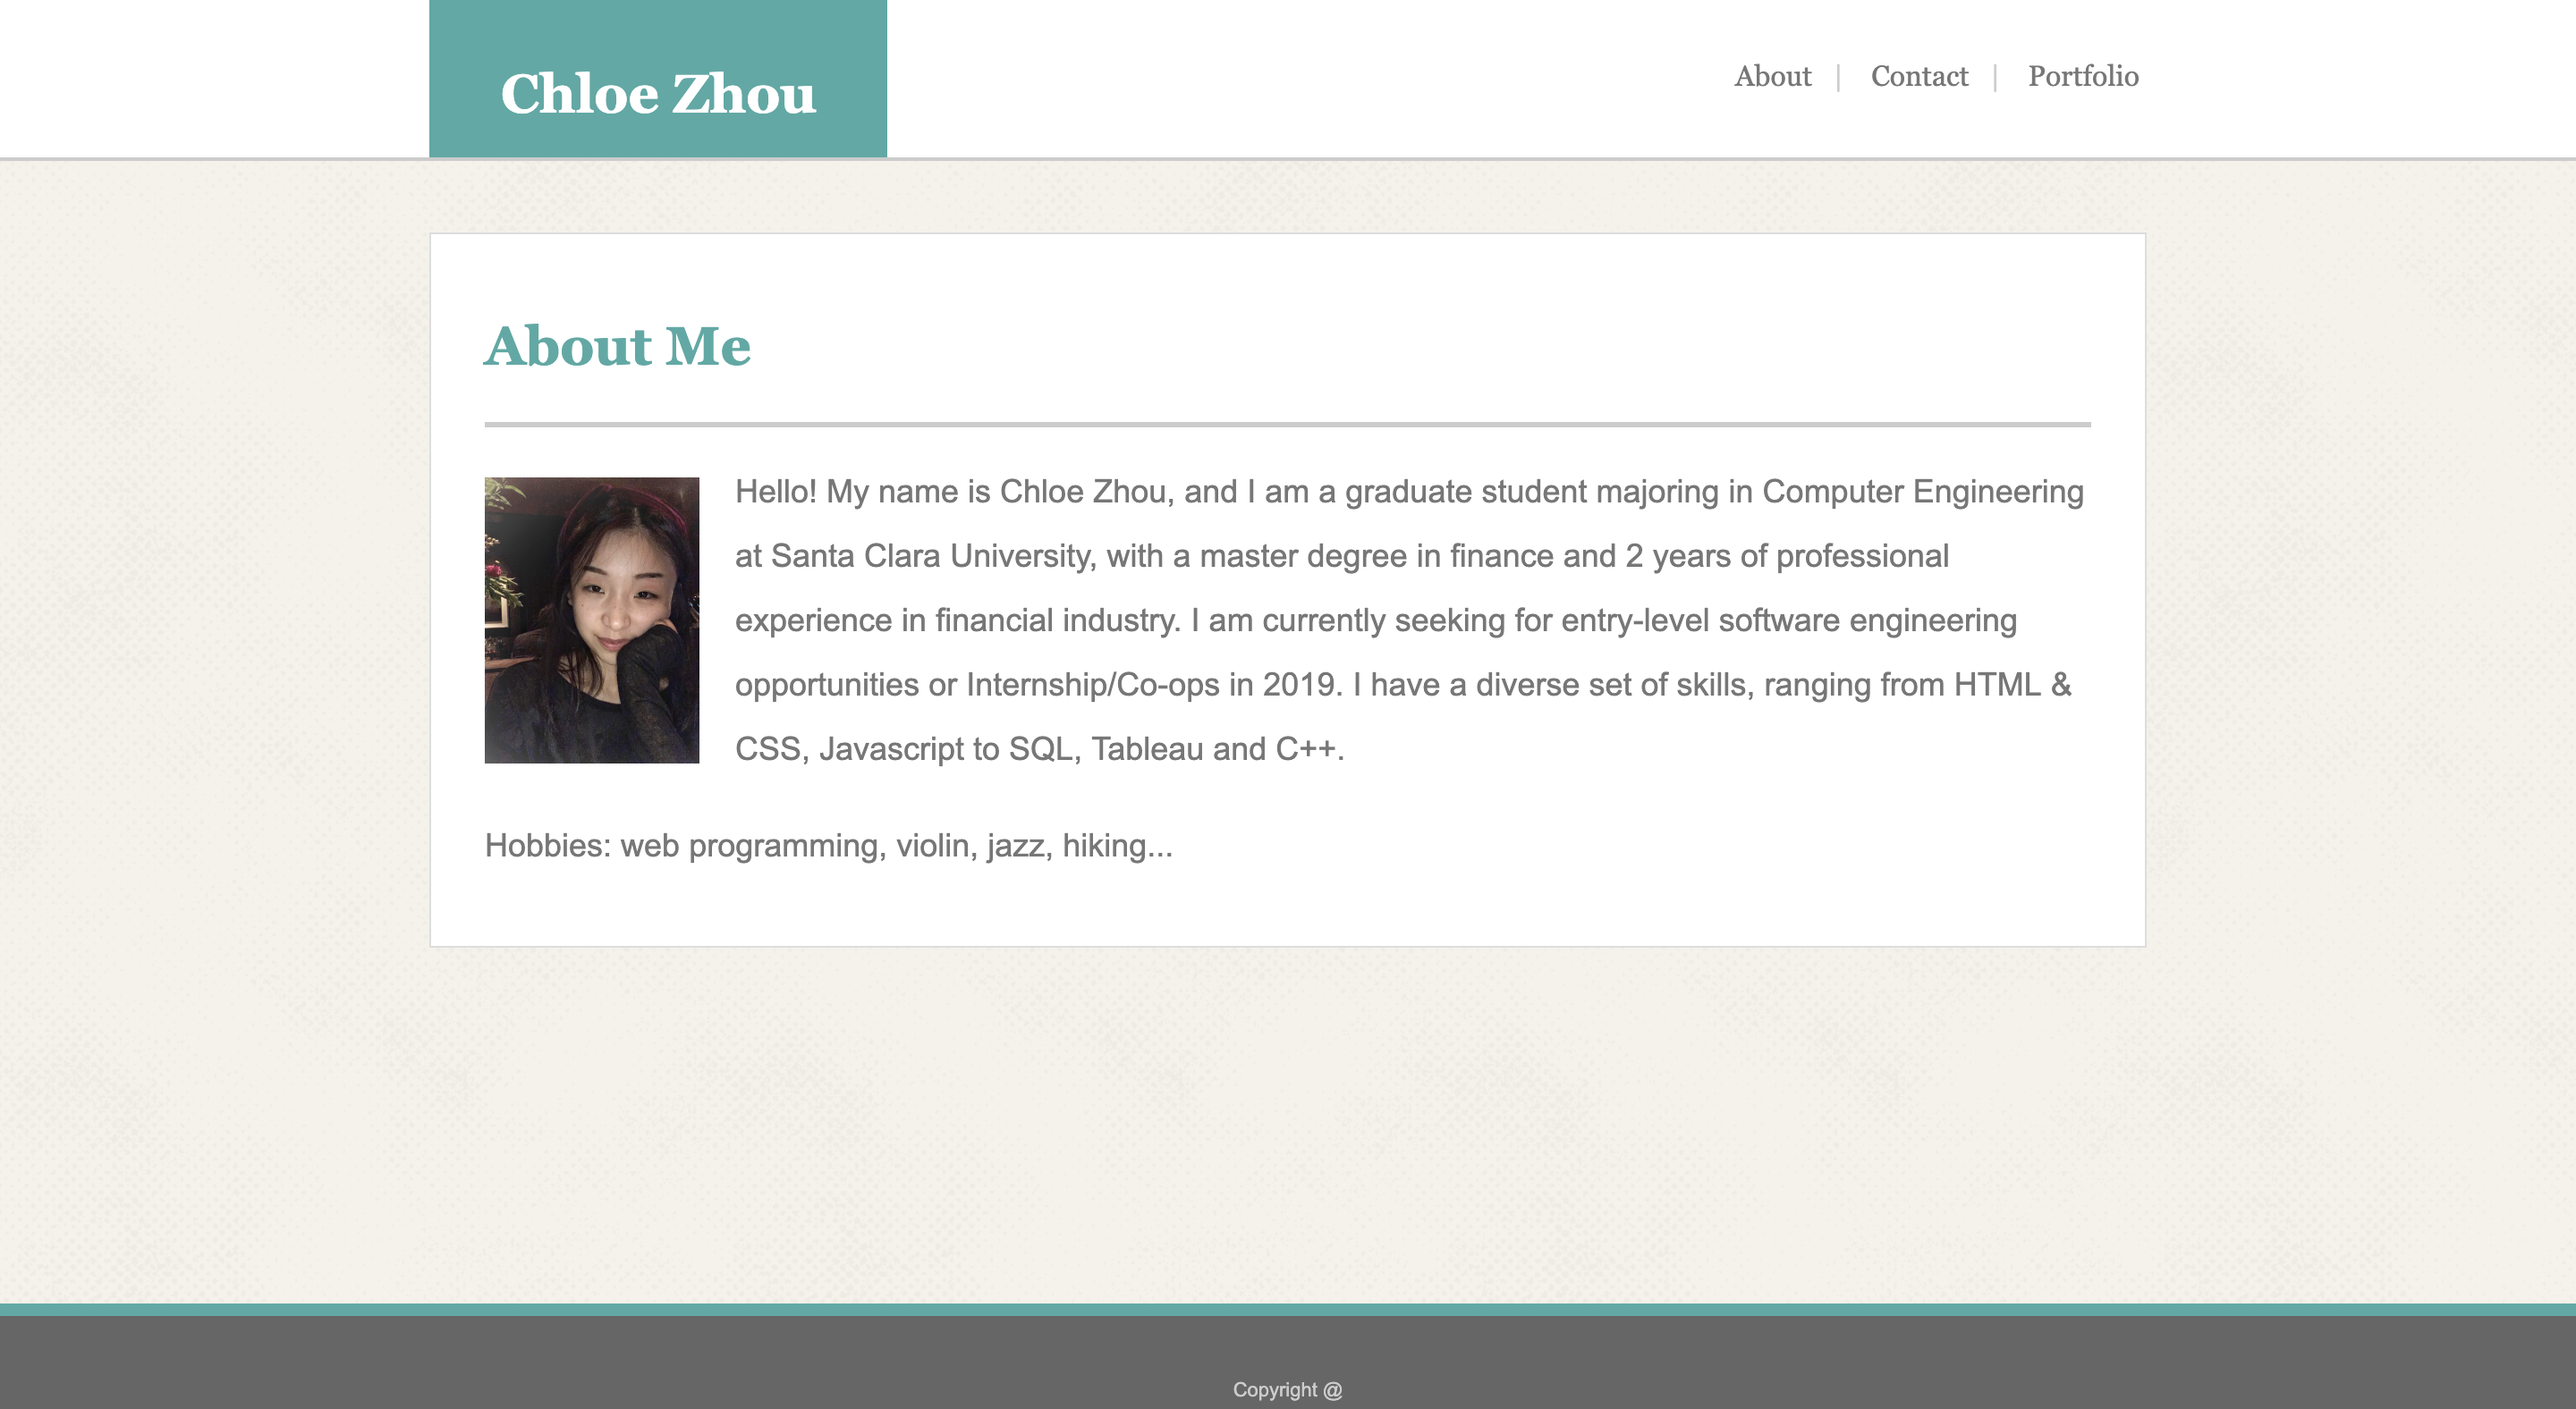
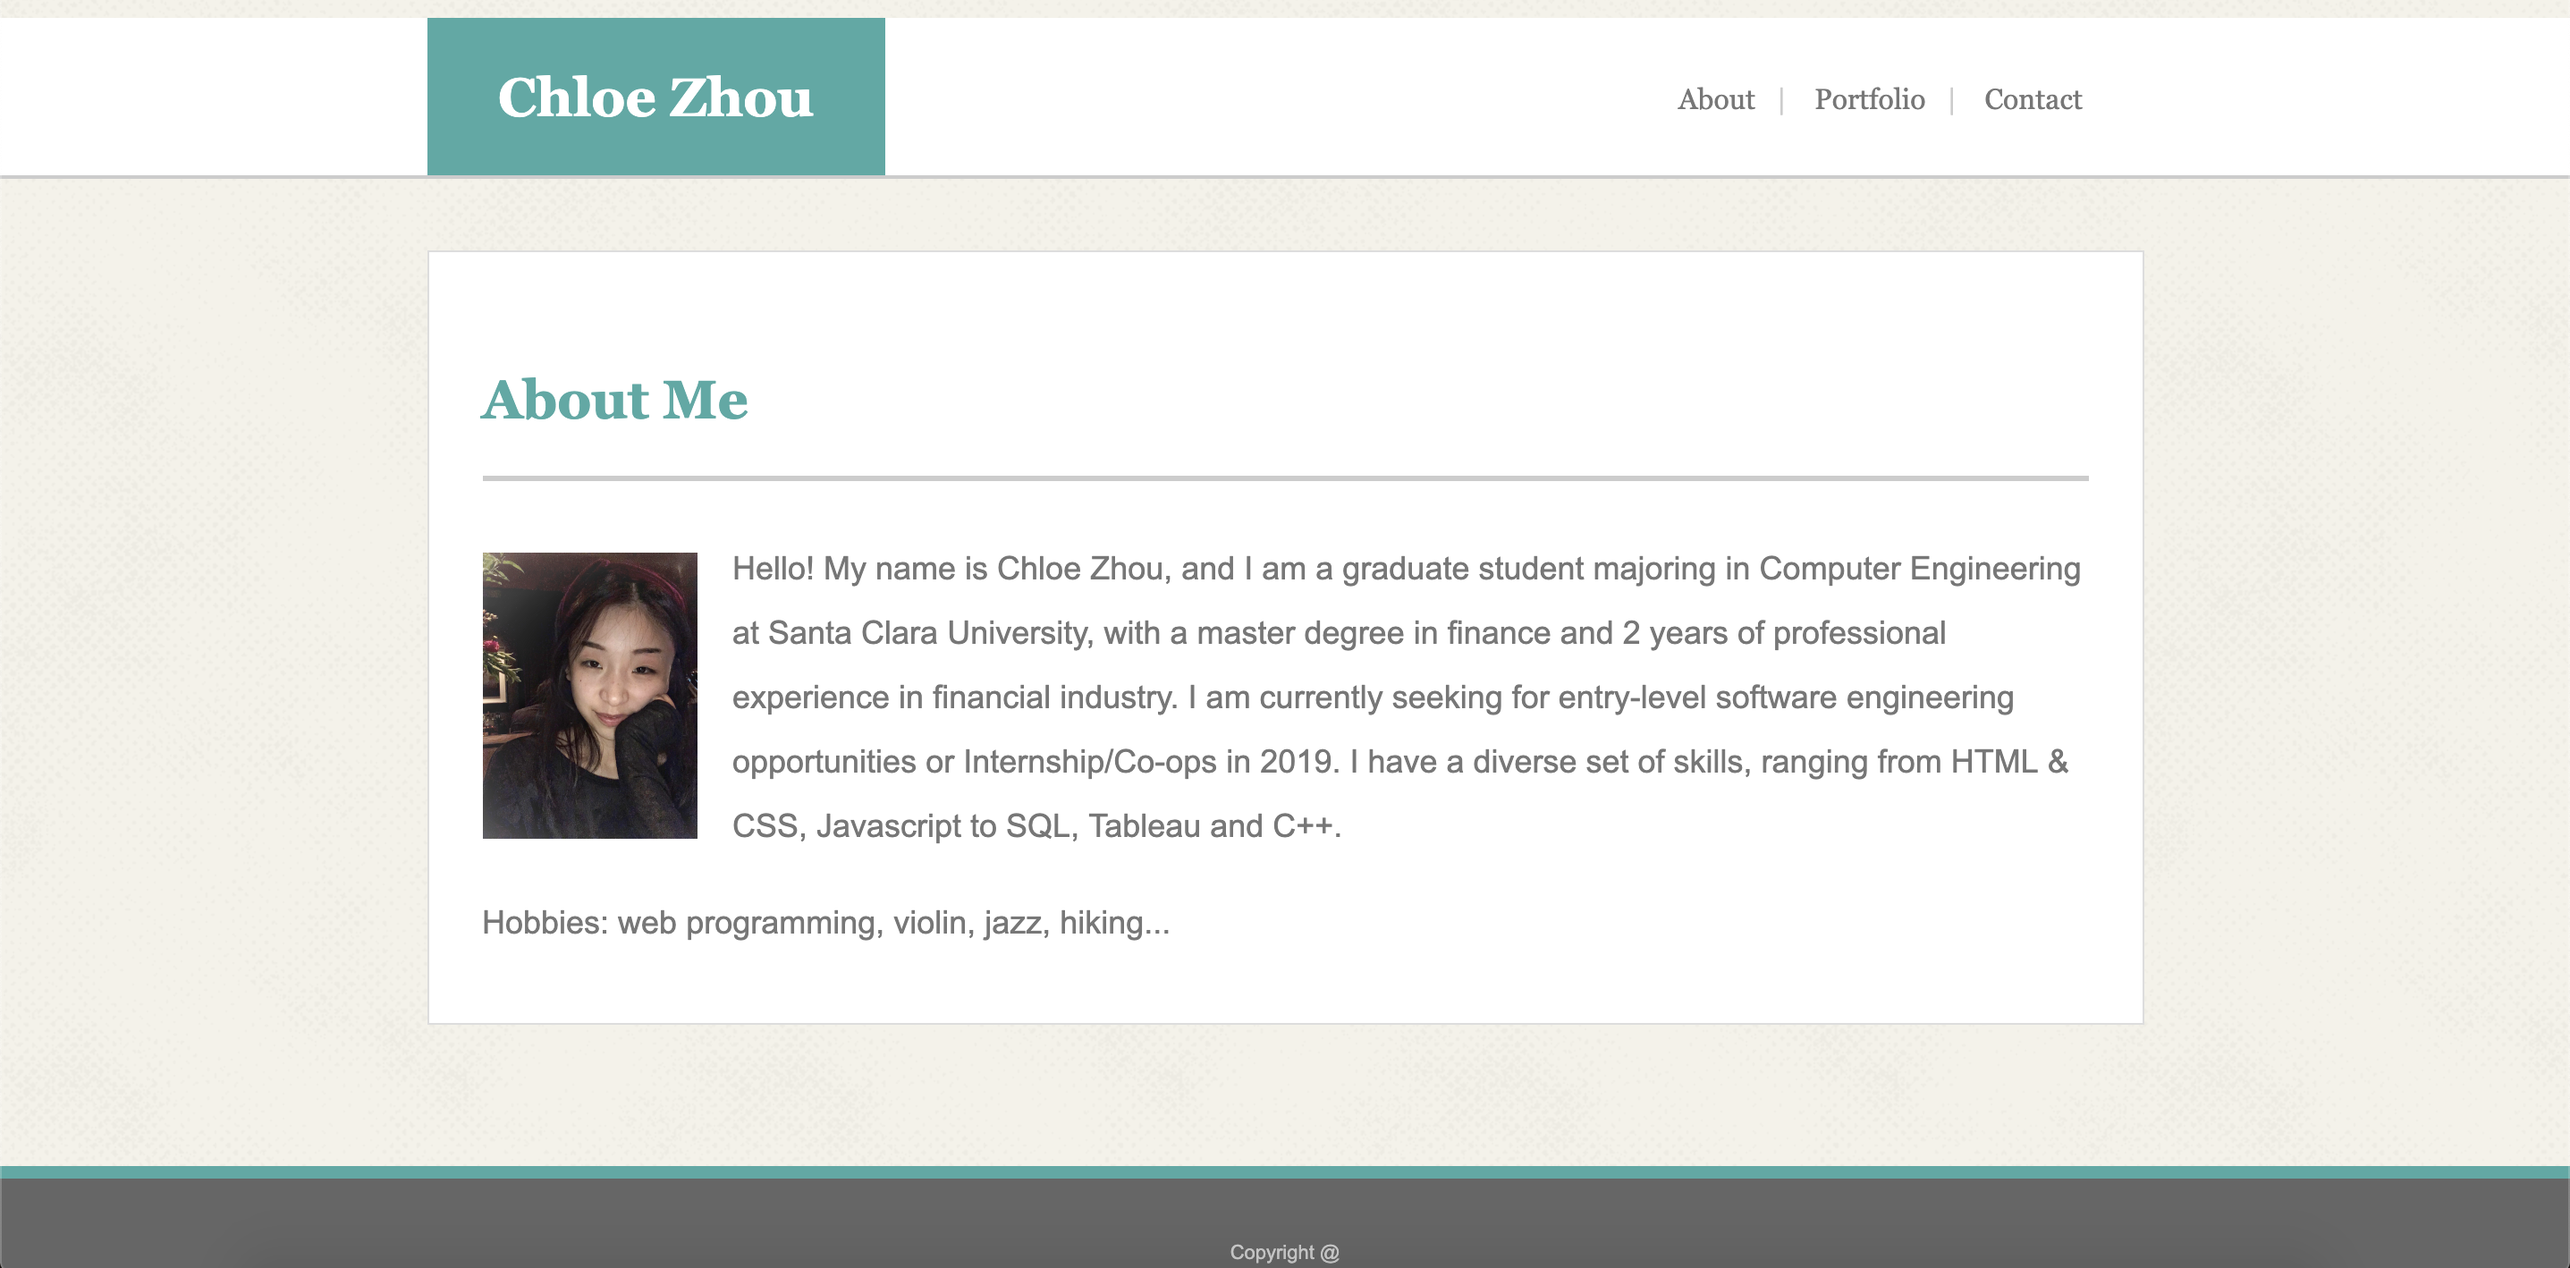
Moved content hr lines lower, and switched navbar order, and updated markdown demo images

diff --git a/index.html b/index.html
@@ -13,8 +13,8 @@
 			<nav>
 				<ul>
 					<li><a href="index.html">About&nbsp&nbsp&nbsp<span>|</span>&nbsp&nbsp&nbsp</a></li>
-					<li><a href="contact.html">Contact&nbsp&nbsp&nbsp<span>|</span>&nbsp&nbsp&nbsp</a></li>
-					<li><a href="portfolio.html">Portfolio</a></li>
+					<li><a href="portfolio.html">Portfolio&nbsp&nbsp&nbsp<span>|</span>&nbsp&nbsp&nbsp</a></li>
+					<li><a href="contact.html">Contact</a></li>
 				</ul>
 			</nav>
 		</div>
@@ -23,10 +23,12 @@
 		<article class = "about">
 			<h1>About Me</h1>
 			<hr>
+			<div class = "aboutcontent">
 			<img src= "assets/images/profile.jpg" alt ="profile">
-			<p>	Hello! My name is Chloe Zhou, and I am a graduate student majoring in Computer Engineering at Santa Clara University, with a master degree in finance and 2 years of professional experience in financial industry. I am currently seeking for entry-level software engineering opportunities or Internship/Co-ops in 2019. I have a diverse set of skills, ranging from HTML & CSS, Javascript to SQL, Tableau and C++. <p>
+			<p class = "wrap">	Hello! My name is Chloe Zhou, and I am a graduate student majoring in Computer Engineering at Santa Clara University, with a master degree in finance and 2 years of professional experience in financial industry. I am currently seeking for entry-level software engineering opportunities or Internship/Co-ops in 2019. I have a diverse set of skills, ranging from HTML & CSS, Javascript to SQL, Tableau and C++. <p>
 
 			<p class = "nowrap"> Hobbies: web programming, violin, jazz, hiking...</p>
+		</div>
 		<article> 
 	</main>
 

diff --git a/assets/css/style.css b/assets/css/style.css
@@ -39,7 +39,7 @@ header
 	z-index: 520;
 	color: white;
 	height: 88px;
-	padding: 10px 40px 0px 40px;
+	padding: 2px 40px 0px 40px;
 	font-size: 20px;
 }
 
@@ -104,7 +104,7 @@ main
 	width: 960px;
 	margin: 0 auto;
 	top: 140px;
-	padding: 20px 30px;
+	padding: 40px 30px 20px 30px;
 
 
 }
@@ -128,21 +128,28 @@ hr
 }
 
 
+.aboutcontent
+{
+	padding-top: 5px;
+}
 
-.about img 
+.aboutcontent img 
 {
 	width: 120px;
 	height:160px;
 	float: left;
 	margin-right: 20px;
-	margin-top: 20px;
+	margin-top: 27px;
 }
 
+p .wrap
+{
+	float: left;
+}
 
 p{
 	line-height: 2;
 	font-size: 18px;
-	
 }
 
 
@@ -157,6 +164,12 @@ clear: both;
 .contactform
 {
 	width: 100%;
+}
+
+form
+{
+	padding-top: 20px;
+	margin-left: 20px;
 }
 
 #name , #email, #message
@@ -194,6 +207,10 @@ input, textarea
 	height: 800px;
 }
 
+.box
+{
+	margin-top: 40px;
+}
 .box1, .box2, .box3, .box4, .box5
 {
 	width: 300px;

diff --git a/portfolio.html b/portfolio.html
@@ -13,8 +13,8 @@
 		<nav>
 			<ul>
 				<li><a href="index.html">About&nbsp&nbsp&nbsp<span>|</span>&nbsp&nbsp&nbsp</a></li>
-				<li><a href="contact.html">Contact&nbsp&nbsp&nbsp<span>|</span>&nbsp&nbsp&nbsp</a></li>
-				<li><a href="portfolio.html">Portfolio</a></li>
+				<li><a href="portfolio.html">Portfolio&nbsp&nbsp&nbsp<span>|</span>&nbsp&nbsp&nbsp</a></li>
+				<li><a href="contact.html">Contact</a></li>
 			</ul>
 		</nav>
 	</header>

diff --git a/contact.html b/contact.html
@@ -13,8 +13,8 @@
 		<nav>
 			<ul>
 				<li><a href="index.html">About&nbsp&nbsp&nbsp<span>|</span>&nbsp&nbsp&nbsp</a></li>
-				<li><a href="contact.html">Contact&nbsp&nbsp&nbsp<span>|</span>&nbsp&nbsp&nbsp</a></li>
-				<li><a href="portfolio.html">Portfolio</a></li>
+				<li><a href="portfolio.html">Portfolio&nbsp&nbsp&nbsp<span>|</span>&nbsp&nbsp&nbsp</a></li>
+				<li><a href="contact.html">Contact</a></li>
 			</ul>
 		</nav>
 	</div>
